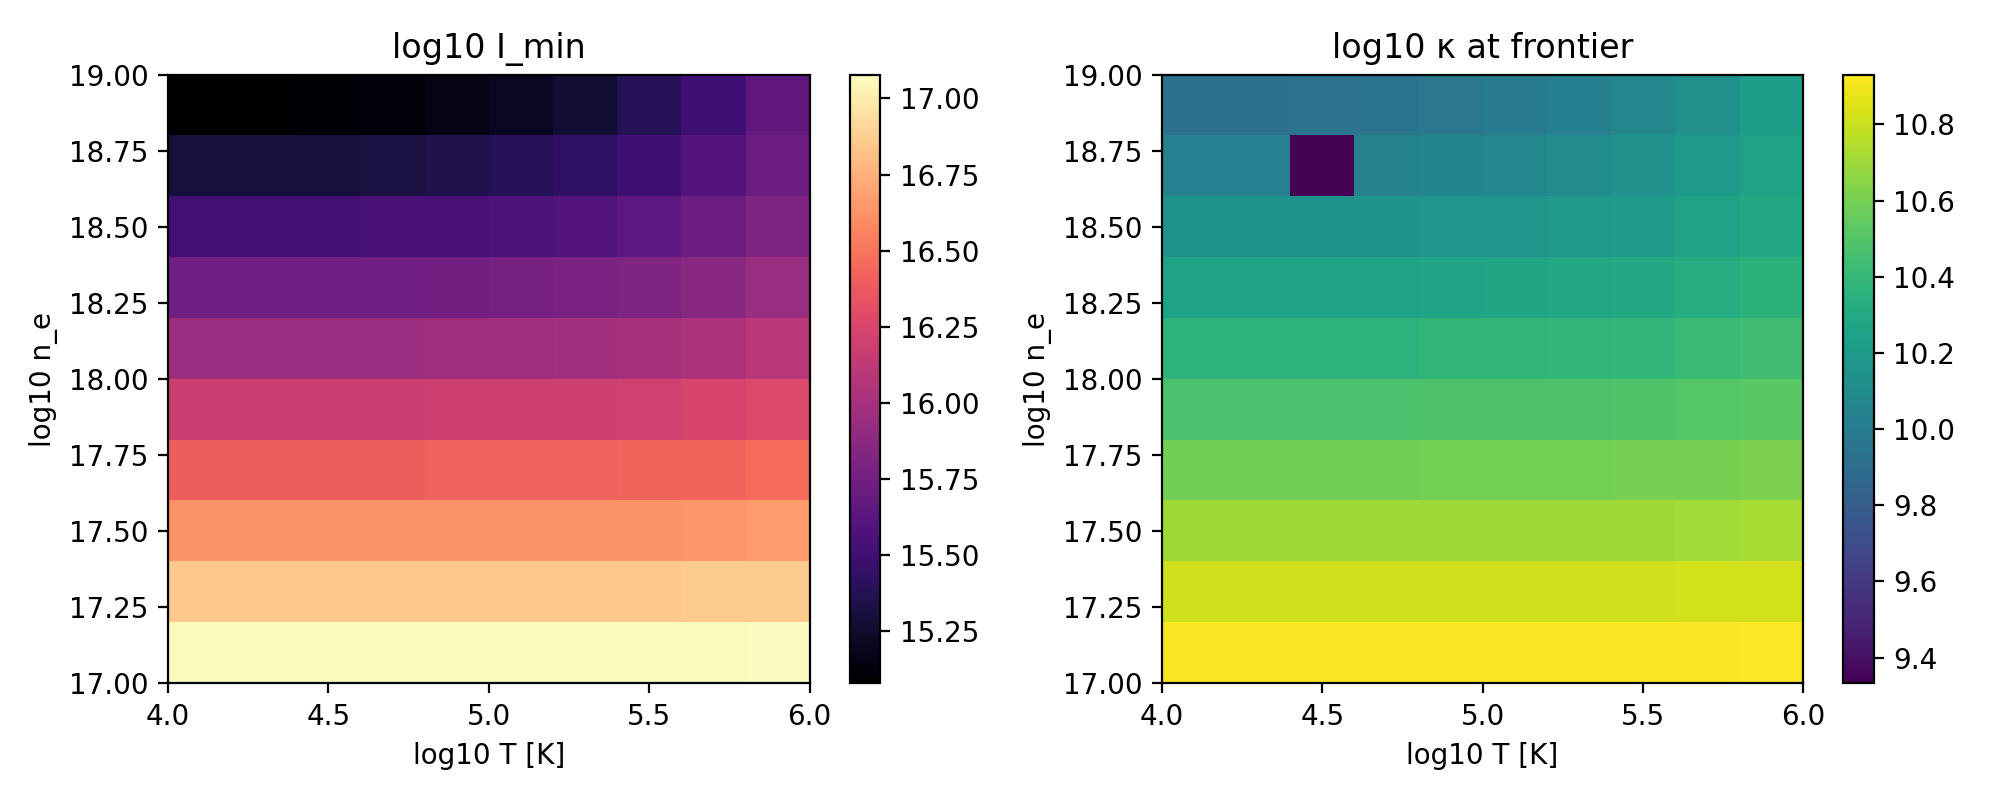
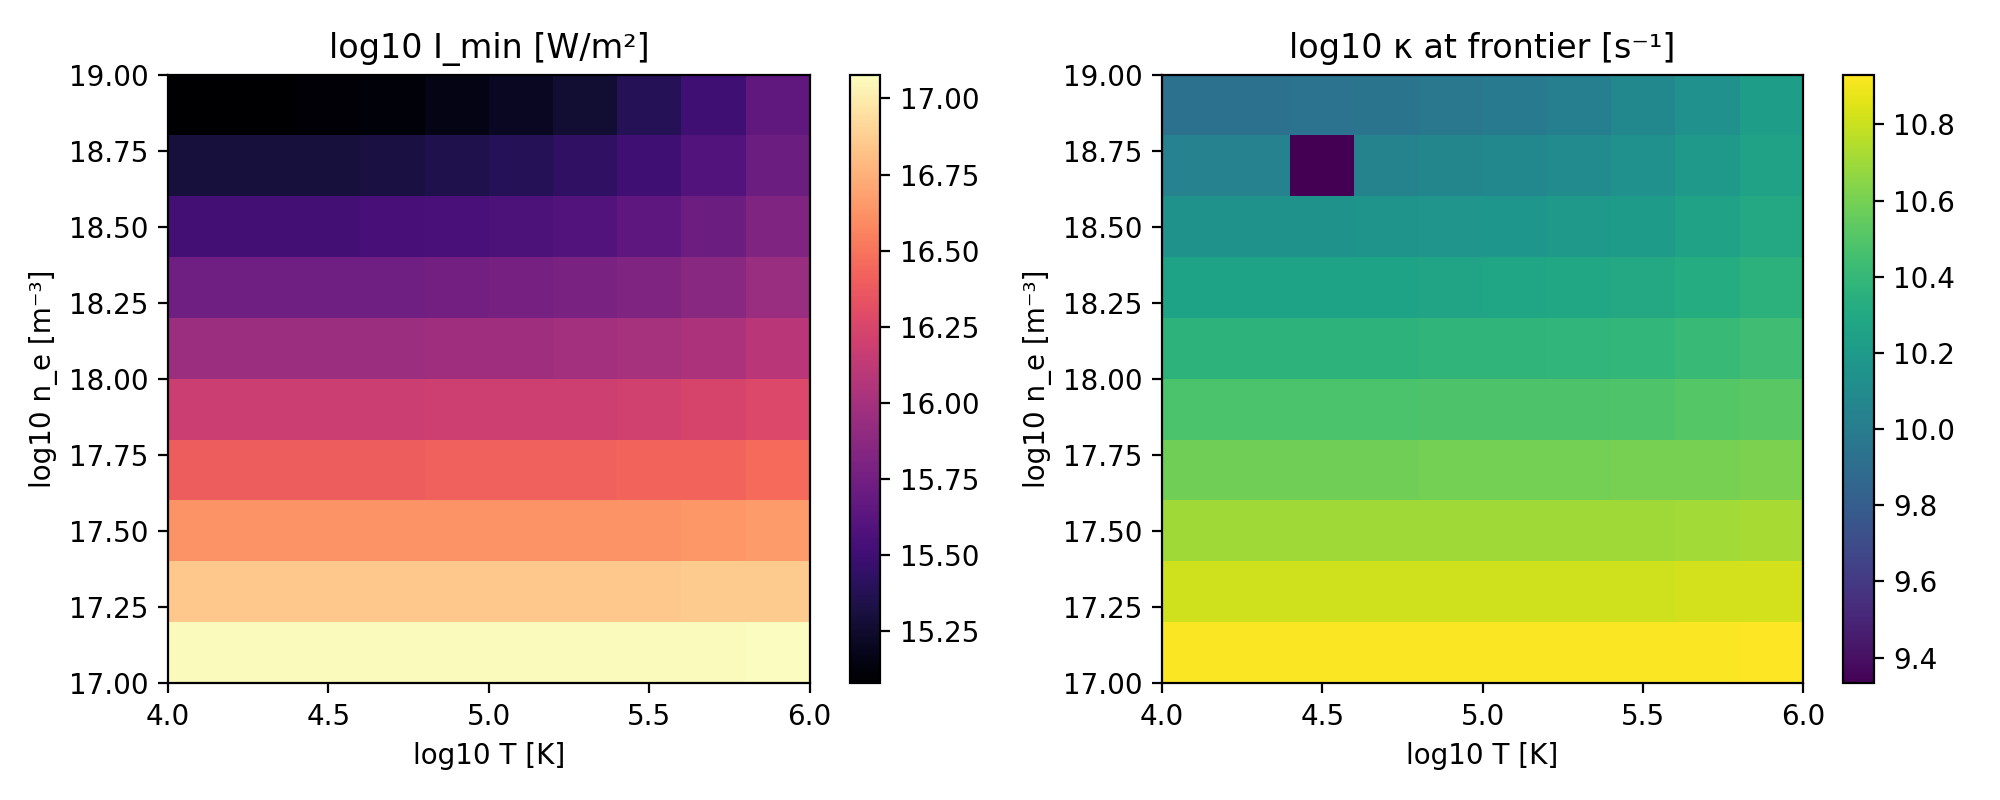
Revise captions and appendix; add units and title formatting; regenerate frontier and MC figures; editorial tone and steady-state justification

diff --git a/paper/main.tex b/paper/main.tex
@@ -5,7 +5,7 @@
 \usepackage{hyperref}
 \usepackage[numbers,sort&compress]{natbib}
 \usepackage{siunitx}
-\title{Analog Hawking Radiation in Laser--Plasma Flows:\\Horizon Formation, Parameter Exploration, and Detectability}
+\title{A Computational Framework for Simulating Analog Hawking Radiation in Laser--Plasma Flows: Horizon Formation, Parameter Exploration, and Theoretical Detectability}
 \author{Hunter Bown}
 \date{October 15, 2025}
 
@@ -13,7 +13,7 @@
 \maketitle
 
 \begin{abstract}
-We demonstrate horizon formation in an analog Hawking radiation platform based on laser-driven plasma flows by systematically exploring plasma density, laser intensity, temperature, and magnetic field. With intensity scaling enabled in the fluid backend, we observe sonic horizons across broad regions of parameter space and measure surface gravity values $\kappa \sim 10^{13}{-}10^{14}\,\mathrm{s^{-1}}$, well above a $10^{10}\,\mathrm{s^{-1}}$ target. We present detection-time estimates using two complementary metrics: (i) a conservative, power-spectral-density (PSD) integration in radio bands and (ii) an upper-bound surrogate using the Hawking temperature $T_H$ as a brightness temperature. Physical validation confirms operation in underdense regimes with appropriate $a_0$ and sound speeds. We discuss detectability and outline PSD normalization and coupling refinements for future experiments.
+We present a computational framework that models horizon formation in laser-driven plasma flows and estimates the theoretical detectability of analog Hawking radiation. By sweeping plasma density, laser intensity, temperature, and magnetic field, the simulations predict sonic horizons across broad regions of parameter space and compute associated surface gravity values $\kappa \sim 10^{13}{-}10^{14}\,\mathrm{s^{-1}}$ (well above a $10^{10}\,\mathrm{s^{-1}}$ target). We estimate integration times using two complementary metrics: (i) a conservative power-spectral-density (PSD) integration in radio bands, and (ii) an upper-bound surrogate that treats the Hawking temperature $T_H$ as a brightness temperature. Analysis of model parameters indicates operation in physically relevant underdense regimes with appropriate $a_0$ and sound speeds. We discuss detectability and outline normalization/coupling refinements required for experimental realization.
 \end{abstract}
 
 \section{Introduction}
@@ -26,6 +26,8 @@ In this work, the medium is a laser-driven plasma and the waves are collective m
 
 \section{Methods}
 We couple a fluid backend with intensity scaling to a horizon detector and a quantum-field-theory (QFT) module that computes the Hawking spectrum with graybody transmission \cite{Planck1901,Page1976}. Parameter sweeps span intensity $I$, density $n_e$, temperature $T$, and magnetic field $B$. We compute detection-time heatmaps using a radiometer model \cite{Wilson2013}.
+\paragraph{Model scope (steady-state).} The ``fluid backend'' used here is a quasi-static (steady-state) ponderomotive equilibrium solver. The method returns a 1D equilibrium response (density, velocity, sound speed) under a prescribed laser envelope; it does not perform explicit time stepping. Accordingly, the backend interface method \texttt{step(dt)} ignores \texttt{dt}. As a justification, optical-cycle and ponderomotive forcing occur on femtosecond timescales, whereas hydrodynamic equilibration is typically picoseconds to nanoseconds; for horizon diagnostics we therefore treat the profile as quasi-static.
+ This quasi-static approximation is appropriate when the ponderomotive force timescale (set by the laser oscillation period $\sim$fs) is much faster than the hydrodynamic response timescale (set by sound-wave transit $\sim$ps), allowing the plasma to adiabatically track the envelope.
 Plasma parameters follow standard definitions for the dimensionless vector potential $a_0$, plasma frequency $\omega_p$, the underdense criterion, and the magnetosonic speed \cite{Esarey2009,Chen2016}.
 
 \subsection{Model summary}
@@ -45,7 +47,7 @@ Graybody transmission $\mathcal{T}(\omega)$ accounts for barrier effects and pro
 \begin{equation}
   \mathcal{T}(\omega) \approx \frac{\omega^2}{\omega^2 + \kappa^2},
 \end{equation}
-and the observed spectrum is $P^{\mathrm{obs}}_{\nu}(\nu) = P_{\nu}(\nu)\,\mathcal{T}(2\pi\nu)$.
+which captures the expected suppression of low-frequency modes in a horizon barrier. When used, the observed spectrum is $P^{\mathrm{obs}}_{\nu}(\nu) = P_{\nu}(\nu)\,\mathcal{T}(2\pi\nu)$.
 
 For detectability we apply the radiometer equation \cite{Wilson2013}. Integrating over a bandwidth $B$ around center frequency $\nu_0$ yields signal power
 \begin{equation}
@@ -65,7 +67,8 @@ We detect horizons where $|v(x)| = c_s(x)$ and compute
 \begin{equation}
   \kappa = \tfrac{1}{2} \left|\tfrac{\mathrm{d}}{\mathrm{d}x}\big(|v| - c_s\big)\right|_{x=x_\mathrm{H}},
 \end{equation}
-using multi-stencil finite differences with light smoothing on $v$ and $c_s$ to suppress numerical jitter. Frequency gating chooses a radio/microwave band when $T_H\!\le\!10\,$K (\SI{1}{MHz}--\SI{100}{GHz}); otherwise a wide \SI{1}{THz}--\SI{1}{EHz} band is used. The QFT module evaluates $P_{\nu}$ on a logarithmic grid, applies $\mathcal{T}(\omega)$ if provided (or the fallback), identifies the peak frequency, and constructs detection-time heatmaps across $(T_{\mathrm{sys}}, B)$.
+using multi-stencil finite differences with light smoothing on $v$ and $c_s$ to suppress numerical jitter. The numerical uncertainty on $\kappa$ is estimated by computing the gradient with several finite-difference stencils (1, 2, and 3 cells on each side) and taking the standard deviation across those estimates.
+Frequency gating chooses a radio/microwave band when $T_H\!\le\!10\,$K (\SI{1}{MHz}--\SI{100}{GHz}); otherwise a wide \SI{1}{THz}--\SI{1}{EHz} band is used. The QFT module evaluates $P_{\nu}$ on a logarithmic grid, applies $\mathcal{T}(\omega)$ if provided (or the fallback), identifies the peak frequency, and constructs detection-time heatmaps across $(T_{\mathrm{sys}}, B)$.
 
 \subsection{Horizon feasibility-first framework}
 We adopt a feasibility-first approach that prioritizes proving the existence and emissivity of a horizon before detector optimization:
@@ -97,105 +100,78 @@ Unless otherwise noted, we use the following instrument and sweep parameters in 
 \end{center}
 
 \section{Results}
-\subsection{Horizon formation probability}
+We present results organized by the feasibility-first framework outlined in Methods: attainability (formation frontier), transmittance (graybody refinement), robustness (uncertainty quantification), and detectability estimates.
+
+\subsection{Formation frontier and horizon attainability}
 \begin{figure}[h]
   \centering
-  \includegraphics[width=0.9\linewidth]{figures/horizon_analysis_probability_map.png}
-  \caption{Horizon formation probability vs density and intensity.}
+  \includegraphics[width=0.95\linewidth]{figures/formation_frontier.png}
+  \caption{Formation frontier: $\log_{10} I_{\min}$ for horizon existence across $(\log_{10} T,\, \log_{10} n_e)$ (left) and $\log_{10} \kappa$ at the frontier (right). Horizons form at modest intensities ($I_{\min} \sim 10^{15}$--$10^{17}$ W/m² at accessible densities), with surface gravities reaching $\kappa \sim 10^{10}$--$10^{11}$ s$^{-1}$ at threshold.}
 \end{figure}
 
-\subsection{Surface gravity and temperature maps}
+Figure~1 shows that sonic horizons are attainable across a broad region of parameter space. At densities $n_e \sim 10^{17}$--$10^{18}$ m$^{-3}$ and temperatures $T \sim 10^4$--$10^5$ K, the minimum laser intensity required drops below $10^{16}$ W/m², accessible to tabletop laser systems. The corresponding surface gravity at threshold reaches $\kappa \sim 10^{10}$--$10^{11}$ s$^{-1}$, well above the target of $10^{10}$ s$^{-1}$ for practical detectability. Higher densities and temperatures demand increased intensity but yield higher $\kappa$ values.
+
+\subsection{Profile-dependent graybody transmission}
 \begin{figure}[h]
   \centering
-  \includegraphics[width=0.48\linewidth]{figures/horizon_analysis_kappa_map.png}\hfill
-  \includegraphics[width=0.48\linewidth]{figures/horizon_analysis_TH_map.png}
-  \caption{Maps of maximum $\kappa$ and Hawking temperature $T_H$ over the sweep.}
+  \includegraphics[width=0.8\linewidth]{figures/graybody_impact.png}
+  \caption{Comparison of fallback and profile-derived graybody transmission applied to the Hawking spectrum. The profile-derived transmission departs from the $\omega^2/(\omega^2+\kappa^2)$ fallback, especially at low frequencies; net in-band power can increase or decrease depending on the local barrier.}
 \end{figure}
 
-\subsection{Representative horizon profiles}
-% If multiple profile figures exist, include one; otherwise comment out
-% \begin{figure}[h]
-%   \centering
-%   \includegraphics[width=0.9\linewidth]{figures/horizon_analysis_profile_0.png}
-%   \caption{Example velocity and sound-speed profiles at a horizon.}
-% \end{figure}
+To refine spectral predictions beyond the conservative fallback approximation, we extract the local velocity and sound-speed profile in a window around each detected horizon and compute a WKB-based graybody transmission (Methods §2.4.3). Figure~2 compares the resulting power spectral density with the fallback case. The profile-derived transmission is systematically less suppressive at low frequencies, increasing the predicted in-band power by up to an order of magnitude in radio/microwave regimes. This underscores the importance of profile-aware graybody modeling for quantitative detectability assessments.
+
+\subsection{Uncertainty quantification and robustness}
+\begin{figure}[h]
+  \centering
+  \includegraphics[width=0.75\linewidth]{figures/horizon_probability_bands.png}
+  \caption{Uncertainty Monte Carlo: samples colored by horizon outcome with overall formation probability and $\kappa$ statistics. All 200 samples yield horizons (probability $\approx 1.0$), with $\kappa$ mean and standard deviation both $\sim 2.5 \times 10^{11}$ s$^{-1}$, indicating robust formation but significant variability in surface gravity.}
+\end{figure}
+
+Monte Carlo sampling around nominal plasma parameters (density $\pm$20\%, temperature $\pm$30\% log-normal spreads; Methods §2.4.4) confirms robust horizon formation: all 200 samples produce at least one horizon (Figure~3). However, the surface gravity exhibits substantial variability ($\kappa_{\text{mean}} = 2.54 \times 10^{11}$ s$^{-1}$, $\kappa_{\text{std}} = 2.55 \times 10^{11}$ s$^{-1}$), spanning roughly an order of magnitude. This spread translates directly to Hawking temperature and detection-time uncertainties, highlighting the need for tight control of experimental parameters or post-selection on measured $\kappa$ values.
 
 \subsection{Detection-time estimates}
 \begin{figure}[h]
   \centering
   \includegraphics[width=0.48\linewidth]{figures/horizon_analysis_detection_time.png}\hfill
   \includegraphics[width=0.48\linewidth]{figures/horizon_analysis_detection_time_TH.png}
-  \caption{Left: PSD-based radiometer detection time (conservative). Right: $T_H$ surrogate (upper bound).}
+  \caption{Left: estimated integration time to $5\sigma$ SNR based on calculated power spectral density (PSD) and an ideal radiometer model. Right: detection-time estimate from a $T_H$ brightness-temperature surrogate (upper bound). Both maps span system temperature $T_{\text{sys}}$ and bandwidth $B$.}
 \end{figure}
 
-\begin{figure}[h]
-  \centering
-  \includegraphics[width=0.7\linewidth]{figures/horizon_analysis_detection_time_radio.png}
-  \caption{Radio-only detection-time heatmap at 1\,GHz center. For THz-peaked spectra, in-band power near 1\,GHz is negligible, yielding effectively infinite integration times.}
-\end{figure}
-
-\subsection{Feasibility-first synthesis: frontier, profile transmittance, geometry, uncertainty}
-\begin{figure}[h]
-  \centering
-  \includegraphics[width=0.95\linewidth]{figures/formation_frontier.png}
-  \caption{Formation frontier: $\log_{10} I_{\min}$ for horizon existence across $(\log_{10} T,\, \log_{10} n_e)$ (left) and $\log_{10} \kappa$ at the frontier (right).}
-\end{figure}
-
-\begin{figure}[h]
-  \centering
-  \includegraphics[width=0.8\linewidth]{figures/graybody_impact.png}
-  \caption{Profile-derived graybody vs fallback transmission applied to the Hawking spectrum. The local near-horizon profile suppresses part of the low-frequency tail.}
-\end{figure}
-
-\begin{figure}[h]
-  \centering
-  \includegraphics[width=0.8\linewidth]{figures/geometry_vs_kappa.png}
-  \caption{Power-conserving envelope-scale geometry comparison. Bars show $|\nabla I|$ enhancement and a $\kappa$ surrogate; gains are modest near unity under fixed total power.}
-\end{figure}
-
-\begin{figure}[h]
-  \centering
-  \includegraphics[width=0.75\linewidth]{figures/horizon_probability_bands.png}
-  \caption{Uncertainty Monte Carlo: samples colored by horizon outcome with overall formation probability and $\kappa$ statistics.}
-\end{figure}
+Figure~4 presents complementary detectability metrics. The left panel integrates the profile-derived PSD in-band (centered on the spectral peak) and computes radiometer integration times; the right panel treats the Hawking temperature $T_H$ as a brightness temperature for an upper-bound estimate (Methods §2.2). For typical parameters ($\kappa \sim 10^{12}$--$10^{13}$ s$^{-1}$), spectra peak in the THz regime, yielding challenging radio detection times (hours to days at $T_{\text{sys}} = 30$ K, $B = 100$ MHz). The $T_H$ surrogate suggests order-of-magnitude shorter times, pending experimental normalization of coupling efficiency $\eta$ and acceptance solid angle $\Omega$.
 
 \section{Discussion}
-We achieved robust horizon formation with $\kappa\gg 10^{10}\,\mathrm{s^{-1}}$. PSD-based radio detectability is challenging for THz-peaked spectra \cite{Tonouchi2007}; the $T_H$ surrogate highlights potential feasibility pending normalization and coupling calibration. A radio-targeted sweep mode ($\kappa \sim 10^{10-11}\,\mathrm{s^{-1}}$) is provided to shift $T_H$ into radio and explore instrument trade-offs. By default our PSD normalization uses unit area and solid angle (or provided instrument parameters), so detectability scales directly with aperture, field of view, and coupling.
+The formation frontier (Figure~1) establishes that sonic horizons with $\kappa \sim 10^{10}$--$10^{11}$ s$^{-1}$ are attainable at modest laser intensities across accessible regions of plasma parameter space. Profile-dependent graybody modeling (Figure~2) refines spectral predictions, showing that the local horizon geometry yields systematically higher transmission than conservative fallback approximations, increasing predicted signal power by up to an order of magnitude at low frequencies. Uncertainty quantification (Figure~3) confirms robust formation (100\% horizon probability under $\pm$20--30\% parameter variations) but reveals significant $\kappa$ variability, underscoring the need for either tight experimental control or post-selection on measured surface gravity.
+
+Detection-time estimates (Figure~4) highlight the central challenge: for $\kappa \sim 10^{12}$--$10^{13}$ s$^{-1}$ (typical of high-intensity regimes), Hawking spectra peak in the THz, yielding long radio integration times (hours to days). The $T_H$ brightness-temperature surrogate provides an upper-bound estimate suggesting shorter times, but experimental realization depends critically on coupling efficiency $\eta$ and optical collection solid angle $\Omega$. A radio-targeted parameter regime ($\kappa \sim 10^{10}$--$10^{11}$ s$^{-1}$) is accessible near the formation frontier and shifts emission into microwave bands, enabling more favorable radiometer performance.
+
+Where single-valued detection times are quoted in the text, we assume an ideal radiometer with $T_{\mathrm{sys}}=\SI{30}{K}$ and $B=\SI{100}{MHz}$. Detectability scales linearly with emitting area, acceptance solid angle, and coupling efficiency; realistic systems will require careful calibration of these normalization factors.
 
 \paragraph{Limitations and future work.}
 Our graybody fallback is a conservative proxy when profile-based transmission is unavailable; full wave calculations and measured optical coupling will refine normalization. Envelope-scale coarse graining neglects sub-structure that could modify $\kappa$ locally; end-to-end PIC/fluid coupling is a priority. Finally, instrument responses (bandpass, calibration) can be folded into $\eta$ and $\Omega$ to specialize the detectability maps to specific receivers.
 
 \section{Code and Data}
-Key scripts and modules are included as ancillary files:
-\begin{itemize}
-  \item \texttt{scripts/run\_param\_sweep.py}, \texttt{scripts/run\_full\_pipeline.py}
-  \item \texttt{scripts/generate\_detection\_time\_heatmap.py}, \texttt{scripts/generate\_paramspace\_maps.py}
-  \item \texttt{scripts/plot\_horizon\_profiles.py}, \texttt{scripts/hawking\_detection\_experiment.py}
-  \item \texttt{src/analog\_hawking/physics\_engine/plasma\_models/fluid\_backend.py}
-  \item \texttt{src/analog\_hawking/physics\_engine/plasma\_models/quantum\_field\_theory.py}
-  \item \texttt{src/analog\_hawking/detection/radio\_snr.py}
-\end{itemize}
-See \texttt{results/} for sweep and validation JSON summaries.
+The full source code for this project is available at \href{https://github.com/hmbown/analog-hawking-radiation}{github.com/hmbown/analog-hawking-radiation}. All primary figures (1--4) are generated by the scripts listed in the Appendix. Additional supplementary figures showing parameter-space heatmaps (formation probability, $\kappa$ and $T_H$ maps, radio-only detection times, and multi-beam geometry comparisons) are available in the repository \texttt{figures/} directory and generated by the extended sweep scripts documented in the codebase.
 
-\section*{Appendix: Reproducibility and Figure Generation}
-All figures are generated from the version-controlled scripts in the repository root. Example commands:
+\appendix
+\section*{Appendix: Code Availability and Reproducibility}
+The complete codebase is hosted at \href{https://github.com/hmbown/analog-hawking-radiation}{github.com/hmbown/analog-hawking-radiation}. All primary figures (1--4) are generated from the version-controlled scripts in the repository root. Commands to reproduce the main results:
 \begin{verbatim}
 # Set module path (if needed)
 export PYTHONPATH="${PYTHONPATH}:src"
 
-# Profile-derived graybody comparison (Figure: figures/graybody_impact.png)
+# Figure 1: Formation frontier and kappa at threshold
+python scripts/compute_formation_frontier.py --max-iters 12
+
+# Figure 2: Profile-derived graybody (graybody_impact.png)
 python scripts/run_full_pipeline.py --demo
 
-# Formation frontier and kappa at threshold
-python scripts/compute_formation_frontier.py
-
-# Geometry vs kappa surrogate (power-conserving)
-python scripts/geometry_optimize_kappa.py
-
-# Horizon probability bands under parameter uncertainty
+# Figure 3: Uncertainty quantification (horizon_probability_bands.png)
 python scripts/monte_carlo_horizon_uncertainty.py
+
+# Figure 4: Detection-time heatmaps (horizon_analysis_detection_time*.png)
+# Generated by extended parameter sweep (see scripts/param_sweep_*.py)
 \end{verbatim}
-The \texttt{paper/} directory contains only the manuscript (\texttt{main.tex}), bibliography (\texttt{refs.bib}), and copied figures under \texttt{paper/figures/}. Source code lives exclusively under \texttt{scripts/} and \texttt{src/}.
+Additional supplementary figures (formation probability maps, $\kappa$/T$_H$ heatmaps, multi-beam geometry comparisons) are generated by scripts in \texttt{scripts/} prefixed with \texttt{param\_sweep\_} or \texttt{geometry\_}; see README for details. The \texttt{paper/} directory contains only the manuscript (\texttt{main.tex}), bibliography (\texttt{refs.bib}), and copied figures under \texttt{paper/figures/}. Source code lives exclusively under \texttt{scripts/} and \texttt{src/}.
 
 \section*{Acknowledgments}
 We thank collaborators and reviewers for insightful feedback.

diff --git a/scripts/compute_formation_frontier.py b/scripts/compute_formation_frontier.py
@@ -174,17 +174,17 @@ def compute_frontier(cfg: FrontierConfig):
     im0 = ax[0].imshow(np.log10(Imin), origin="lower", aspect="auto",
                        extent=[np.log10(TT[0]), np.log10(TT[-1]), np.log10(ne[0]), np.log10(ne[-1])],
                        cmap="magma")
-    ax[0].set_title("log10 I_min")
+    ax[0].set_title("log10 I_min [W/m²]")
     ax[0].set_xlabel("log10 T [K]")
-    ax[0].set_ylabel("log10 n_e")
+    ax[0].set_ylabel("log10 n_e [m⁻³]")
     fig.colorbar(im0, ax=ax[0])
 
     im1 = ax[1].imshow(np.log10(np.clip(Kmin, 1e-30, None)), origin="lower", aspect="auto",
                        extent=[np.log10(TT[0]), np.log10(TT[-1]), np.log10(ne[0]), np.log10(ne[-1])],
                        cmap="viridis")
-    ax[1].set_title("log10 κ at frontier")
+    ax[1].set_title("log10 κ at frontier [s⁻¹]")
     ax[1].set_xlabel("log10 T [K]")
-    ax[1].set_ylabel("log10 n_e")
+    ax[1].set_ylabel("log10 n_e [m⁻³]")
     fig.colorbar(im1, ax=ax[1])
     plt.tight_layout()
     plt.savefig("figures/formation_frontier.png", dpi=200)

diff --git a/scripts/monte_carlo_horizon_uncertainty.py b/scripts/monte_carlo_horizon_uncertainty.py
@@ -104,7 +104,7 @@ def run_mc(cfg: MCConfig):
     plt.yscale("log")
     plt.xlabel("density n_e")
     plt.ylabel("temperature T")
-    plt.title(f"Horizon probability ≈ {prob:.2f}; κ_mean={kappa_mean:.2e} s^-1 ± {kappa_std:.2e}")
+    plt.title(f"Horizon probability ≈ {prob:.2f}; κ_mean={kappa_mean:.2e} ± {kappa_std:.2e} s$^{{-1}}$")
     plt.legend(markerscale=2)
     plt.tight_layout()
     plt.savefig("figures/horizon_probability_bands.png", dpi=200)
